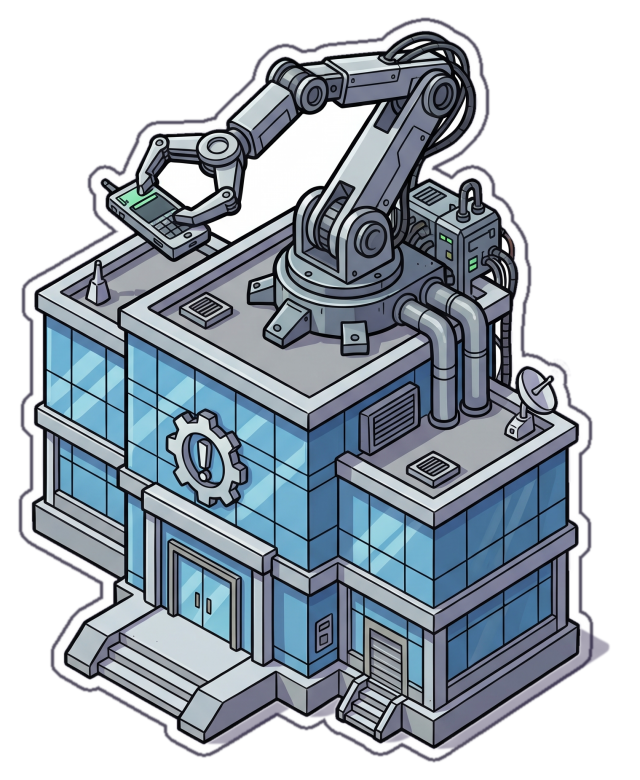
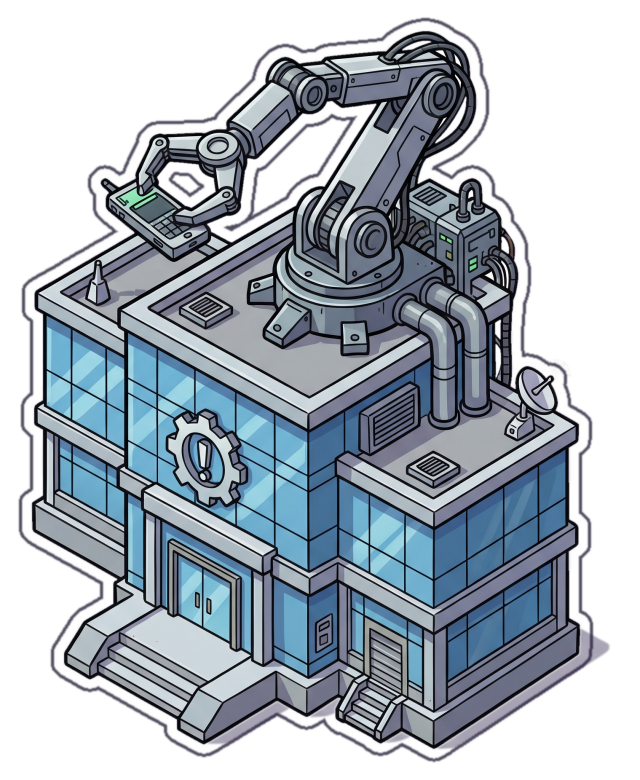
Quita el fondo blanco atrapado dentro de los dibujos
El hueco entre el brazo robótico y el edificio de la empresa, los barrotes del
metro, los postes del cartel, los cordones del cine y algunos huecos pequeños
del taller, el centro cívico y el aeropuerto pasan a ser transparentes. La zona
clicable también los excluye.

Claude-Session: https://claude.ai/code/session_01WvcRZ9ArDP3Z61TtDYvaha

diff --git a/src/components/Building.tsx b/src/components/Building.tsx
@@ -17,6 +17,8 @@ export default function Building({ building, editing = false }: Props) {
   // con espejo, el punto de apoyo también se refleja
   const ax = flip ? 1 - hit.anchor[0] : hit.anchor[0]
   const ay = hit.anchor[1]
+  // contorno exterior y huecos en un solo trazado; con evenodd los huecos quedan fuera
+  const hitPath = hit.polygons.map((poly) => `M${poly.map(([px, py]) => `${px},${py}`).join('L')}Z`).join('')
   const [hovered, setHovered] = useState(false)
   const [focused, setFocused] = useState(false)
   const active = !editing && (hovered || focused)
@@ -73,16 +75,14 @@ export default function Building({ building, editing = false }: Props) {
           preserveAspectRatio="none"
           aria-hidden="true"
         >
-          {hit.polygons.map((poly, i) => (
-            <polygon
-              key={i}
-              points={poly.map(([px, py]) => `${px},${py}`).join(' ')}
-              fill="transparent"
-              style={{ pointerEvents: editing ? 'none' : 'auto' }}
-              onPointerEnter={() => setHovered(true)}
-              onPointerLeave={() => setHovered(false)}
-            />
-          ))}
+          <path
+            d={hitPath}
+            fill="transparent"
+            fillRule="evenodd"
+            style={{ pointerEvents: editing ? 'none' : 'auto' }}
+            onPointerEnter={() => setHovered(true)}
+            onPointerLeave={() => setHovered(false)}
+          />
         </svg>
         </div>
         </div>

diff --git a/src/data/buildings.ts b/src/data/buildings.ts
@@ -57,7 +57,7 @@ export interface HitArea {
   height: number
   /** Punto de apoyo de la base dentro de la imagen (0–1). */
   anchor: [number, number]
-  /** Contorno del dibujo (0–1), sin la sombra. */
+  /** Contorno del dibujo (0–1), sin la sombra, más los huecos de fondo atrapado (se combinan con evenodd). */
   polygons: [number, number][][]
 }
 

diff --git a/scripts/cutout.py b/scripts/cutout.py
@@ -40,7 +40,40 @@ def save_rgba(arr: np.ndarray, out_dir: str, name: str, png_dir: str | None):
         img.save(f"{png_dir}/{name}.png", optimize=True)
 
 
-def process(src: str, out_dir: str, name: str, final_w: int = 640, png_dir: str | None = None) -> dict:
+def trapped_background(rgb: np.ndarray, bg: np.ndarray, white_holes: bool, seeds) -> np.ndarray:
+    """Fondo blanco encerrado dentro del dibujo (p. ej. el hueco entre el brazo robótico y el edificio).
+
+    El relleno de huecos lo trataría como pared blanca, así que se marca aparte:
+    - white_holes: todos los huecos de blanco puro (media de cada canal >= 250). Solo para assets
+      sin zonas blancas puras dibujadas, porque el fuselaje de un avión, por ejemplo, también lo es.
+    - seeds: puntos (x, y) en píxeles del original; el hueco blanco que contiene cada uno es fondo.
+    """
+    mn = rgb.min(axis=2)
+    holes = (mn > 228) & ~bg
+    n, lab, stats, _ = cv2.connectedComponentsWithStats(holes.astype(np.uint8), connectivity=4)
+    out = np.zeros(bg.shape, bool)
+    if white_holes:
+        for i in range(1, n):
+            if stats[i, cv2.CC_STAT_AREA] >= 300 and rgb[lab == i].mean(axis=0).min() >= 250:
+                out |= lab == i
+    for x, y in seeds:
+        if lab[y, x]:
+            out |= lab == lab[y, x]
+    # incluir el borde antialiasado claro que rodea al hueco, para que no quede halo
+    lum = rgb.mean(axis=2)
+    ring = cv2.dilate(out.astype(np.uint8), np.ones((3, 3), np.uint8), iterations=2).astype(bool)
+    return out | (ring & (lum > 200))
+
+
+def process(
+    src: str,
+    out_dir: str,
+    name: str,
+    final_w: int = 640,
+    png_dir: str | None = None,
+    white_holes: bool = False,
+    seeds=(),
+) -> dict:
     rgb = np.array(Image.open(src).convert("RGB")).astype(np.int16)
     h, w, _ = rgb.shape
     mn = rgb.min(axis=2)
@@ -49,6 +82,8 @@ def process(src: str, out_dir: str, name: str, final_w: int = 640, png_dir: str 
 
     # 1) fondo: casi blanco y conectado al borde de la imagen
     bg = connected_to_border(mn > 228)
+    # 1b) fondo atrapado dentro del dibujo
+    trapped = trapped_background(rgb, bg, white_holes, seeds)
 
     # 2) sombra suave lavanda alrededor de la base: clara, poco saturada, pegada al fondo
     light = (lum > 150) & ((mx - mn) < 60) & ~bg
@@ -72,7 +107,7 @@ def process(src: str, out_dir: str, name: str, final_w: int = 640, png_dir: str 
     ff = np.zeros((h + 2, w + 2), np.uint8)
     inv = (1 - filled).astype(np.uint8)
     cv2.floodFill(inv, ff, (0, 0), 0)
-    building = (filled | inv).astype(bool)
+    building = (filled | inv).astype(bool) & ~trapped
 
     # alpha del edificio con borde suavizado (quita el halo blanco del JPG)
     core = cv2.erode(building.astype(np.uint8), np.ones((3, 3), np.uint8), iterations=1)
@@ -136,12 +171,14 @@ def process(src: str, out_dir: str, name: str, final_w: int = 640, png_dir: str 
 
     # contorno del edificio (sin sombra) para la zona clicable
     hit_mask = cv2.morphologyEx(mask, cv2.MORPH_CLOSE, disk(3))
-    contours, _ = cv2.findContours(hit_mask, cv2.RETR_EXTERNAL, cv2.CHAIN_APPROX_SIMPLE)
+    # RETR_CCOMP también devuelve los huecos (fondo atrapado); la web los dibuja con evenodd,
+    # así que un hueco dentro del contorno no responde al ratón.
+    contours, _ = cv2.findContours(hit_mask, cv2.RETR_CCOMP, cv2.CHAIN_APPROX_SIMPLE)
     contours = [c for c in contours if cv2.contourArea(c) > 0]
     biggest = max(cv2.contourArea(c) for c in contours)
     polygons = []
     for c in sorted(contours, key=cv2.contourArea, reverse=True):
-        if cv2.contourArea(c) < biggest * 0.01:
+        if cv2.contourArea(c) < biggest * 0.002:
             continue
         approx = cv2.approxPolyDP(c, 2.0, True)[:, 0, :]
         polygons.append([[round(float(x) / size[0], 4), round(float(y) / size[1], 4)] for x, y in approx])

diff --git a/scripts/build_assets.py b/scripts/build_assets.py
@@ -39,6 +39,19 @@ BUILDINGS = {
     "estacion_metro": "Metro.jpg",
 }
 
+# Fondo blanco que queda encerrado dentro del dibujo y debe ser transparente.
+# "white_holes": todos los huecos de blanco puro (assets sin blancos puros dibujados).
+# "seeds": puntos (x, y) en píxeles del JPG original, uno dentro de cada hueco.
+TRAPPED = {
+    "empresa": {"white_holes": True},  # entre el brazo robótico y el edificio
+    "cine": {"white_holes": True},  # dentro de los cordones de la alfombra roja
+    "cartel_bienvenida": {"white_holes": True},  # bajo el cartel, entre los postes
+    "estacion_metro": {"white_holes": True},  # entre los barrotes de la barandilla
+    "taller": {"seeds": [(1044, 351), (940, 359), (384, 799)]},  # llave/engranaje y tubería
+    "centro_civico": {"seeds": [(1444, 672), (1480, 715)]},  # dentro del muelle de la antena
+    "aeropuerto": {"seeds": [(463, 1461)]},  # dentro del carro de equipajes
+}
+
 
 def main():
     OUT.mkdir(parents=True, exist_ok=True)
@@ -51,7 +64,7 @@ def main():
 
     hit = {}
     for bid, fname in BUILDINGS.items():
-        hit[bid] = process(str(SRC / fname), str(OUT), bid, png_dir=str(PNG))
+        hit[bid] = process(str(SRC / fname), str(OUT), bid, png_dir=str(PNG), **TRAPPED.get(bid, {}))
 
     DATA.write_text(json.dumps(hit, separators=(",", ":")) + "\n", encoding="utf-8")
     print(f"Escrito {DATA.relative_to(ROOT)}")
